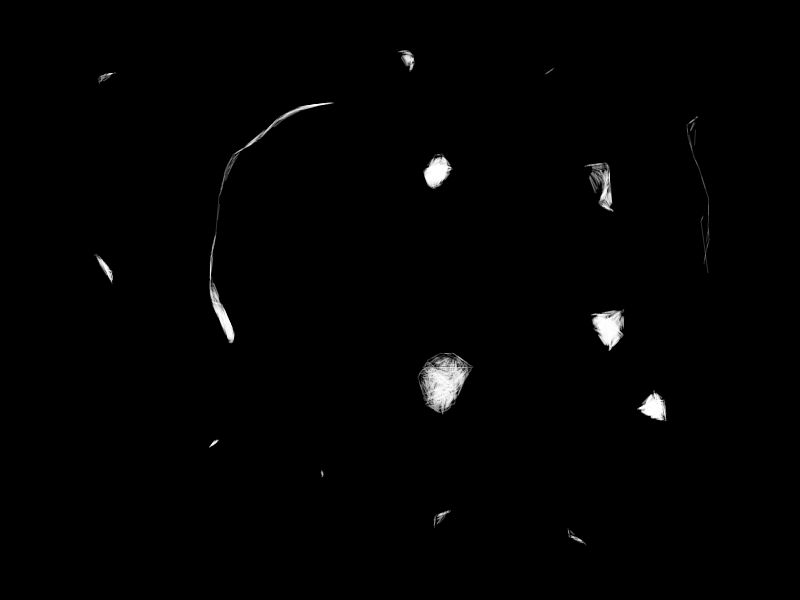
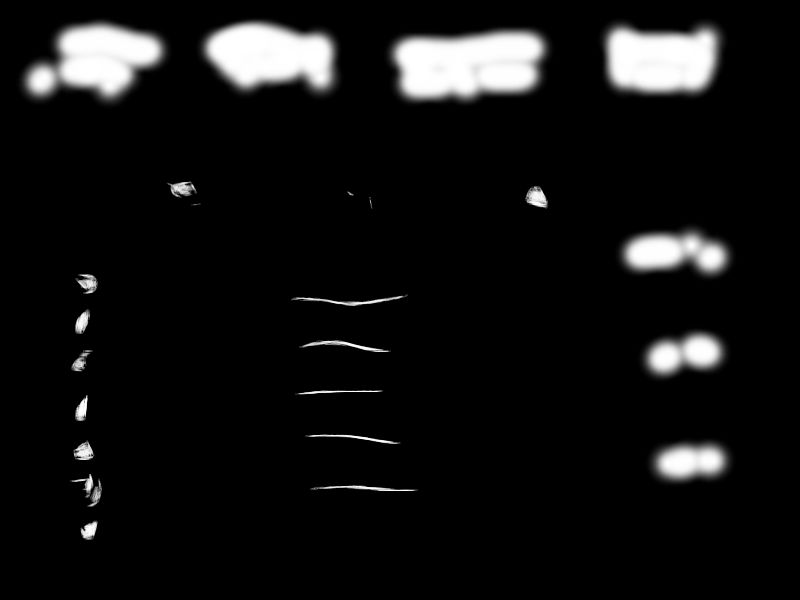
Better heatmap

diff --git a/src/testClusters/testClusters.java b/src/testClusters/testClusters.java
@@ -1,5 +1,6 @@
 package testClusters;
 
+import java.awt.Color;
 import java.awt.Dimension;
 import java.awt.image.BufferedImage;
 import java.awt.image.DataBufferByte;
@@ -44,7 +45,6 @@ public class testClusters extends JPanel {
 							pixel = (short) (pixel + 256);
 						}
 						pixels[j] = pixel;
-						//System.out.println(pixels[j]);
 					}
 					transformImage(pixels, bf.getWidth(), bf.getHeight());
 				}	
@@ -53,20 +53,16 @@ public class testClusters extends JPanel {
 	}
 	
 	private void transformImage(short[] pixels, int w, int h) {
-		//System.out.println(pixels.length);
-		
-		
-		
 		int[] newPixels = new int[pixels.length];
 		
 		float dump_value = 0.1f;
 		float dump_dist = 3.5f;
-		int threshold = 4000;
+		int threshold = 5000;
 		int maxValue = 0;
 		
-		int tx = 20;
-		int ty = 20;
-		int tdiff = 6;
+		int tx = 40;
+		int ty = 40;
+		int tdiff = 5;
 		for (int i = 0; i < w; i++) {
 			for (int j = 0; j < h; j++) {
 				int index = j * w + i;
@@ -96,15 +92,18 @@ public class testClusters extends JPanel {
 		}
 		
 		for (int i = 0; i < newPixels.length; i++) {
-			//System.out.println("Before: " + pixels[i] + ", after: " + newPixels[i]);
 			newPixels[i] = (int) (((float) newPixels[i] / maxValue) * 255);
-			//System.out.println("Now : " + newPixels[i]);
 		}
 		
+		float hueThreshold = 0.7f;
 		int[] rgb = new int[newPixels.length];
 		for (int i = 0; i < newPixels.length; i++) {
 			if (newPixels[i] > 0) {
-				rgb[i] = (newPixels[i] << 16) + (newPixels[i]);
+				float hue = (255.0f - newPixels[i])/255.0f;
+				if (hue < hueThreshold) {
+					Color c = Color.getHSBColor(hue, 0.8f, 0.8f);
+					rgb[i] = c.getRGB();
+				}
 			}
 		}
 		BufferedImage bf = new BufferedImage(w, h, BufferedImage.TYPE_INT_RGB);
